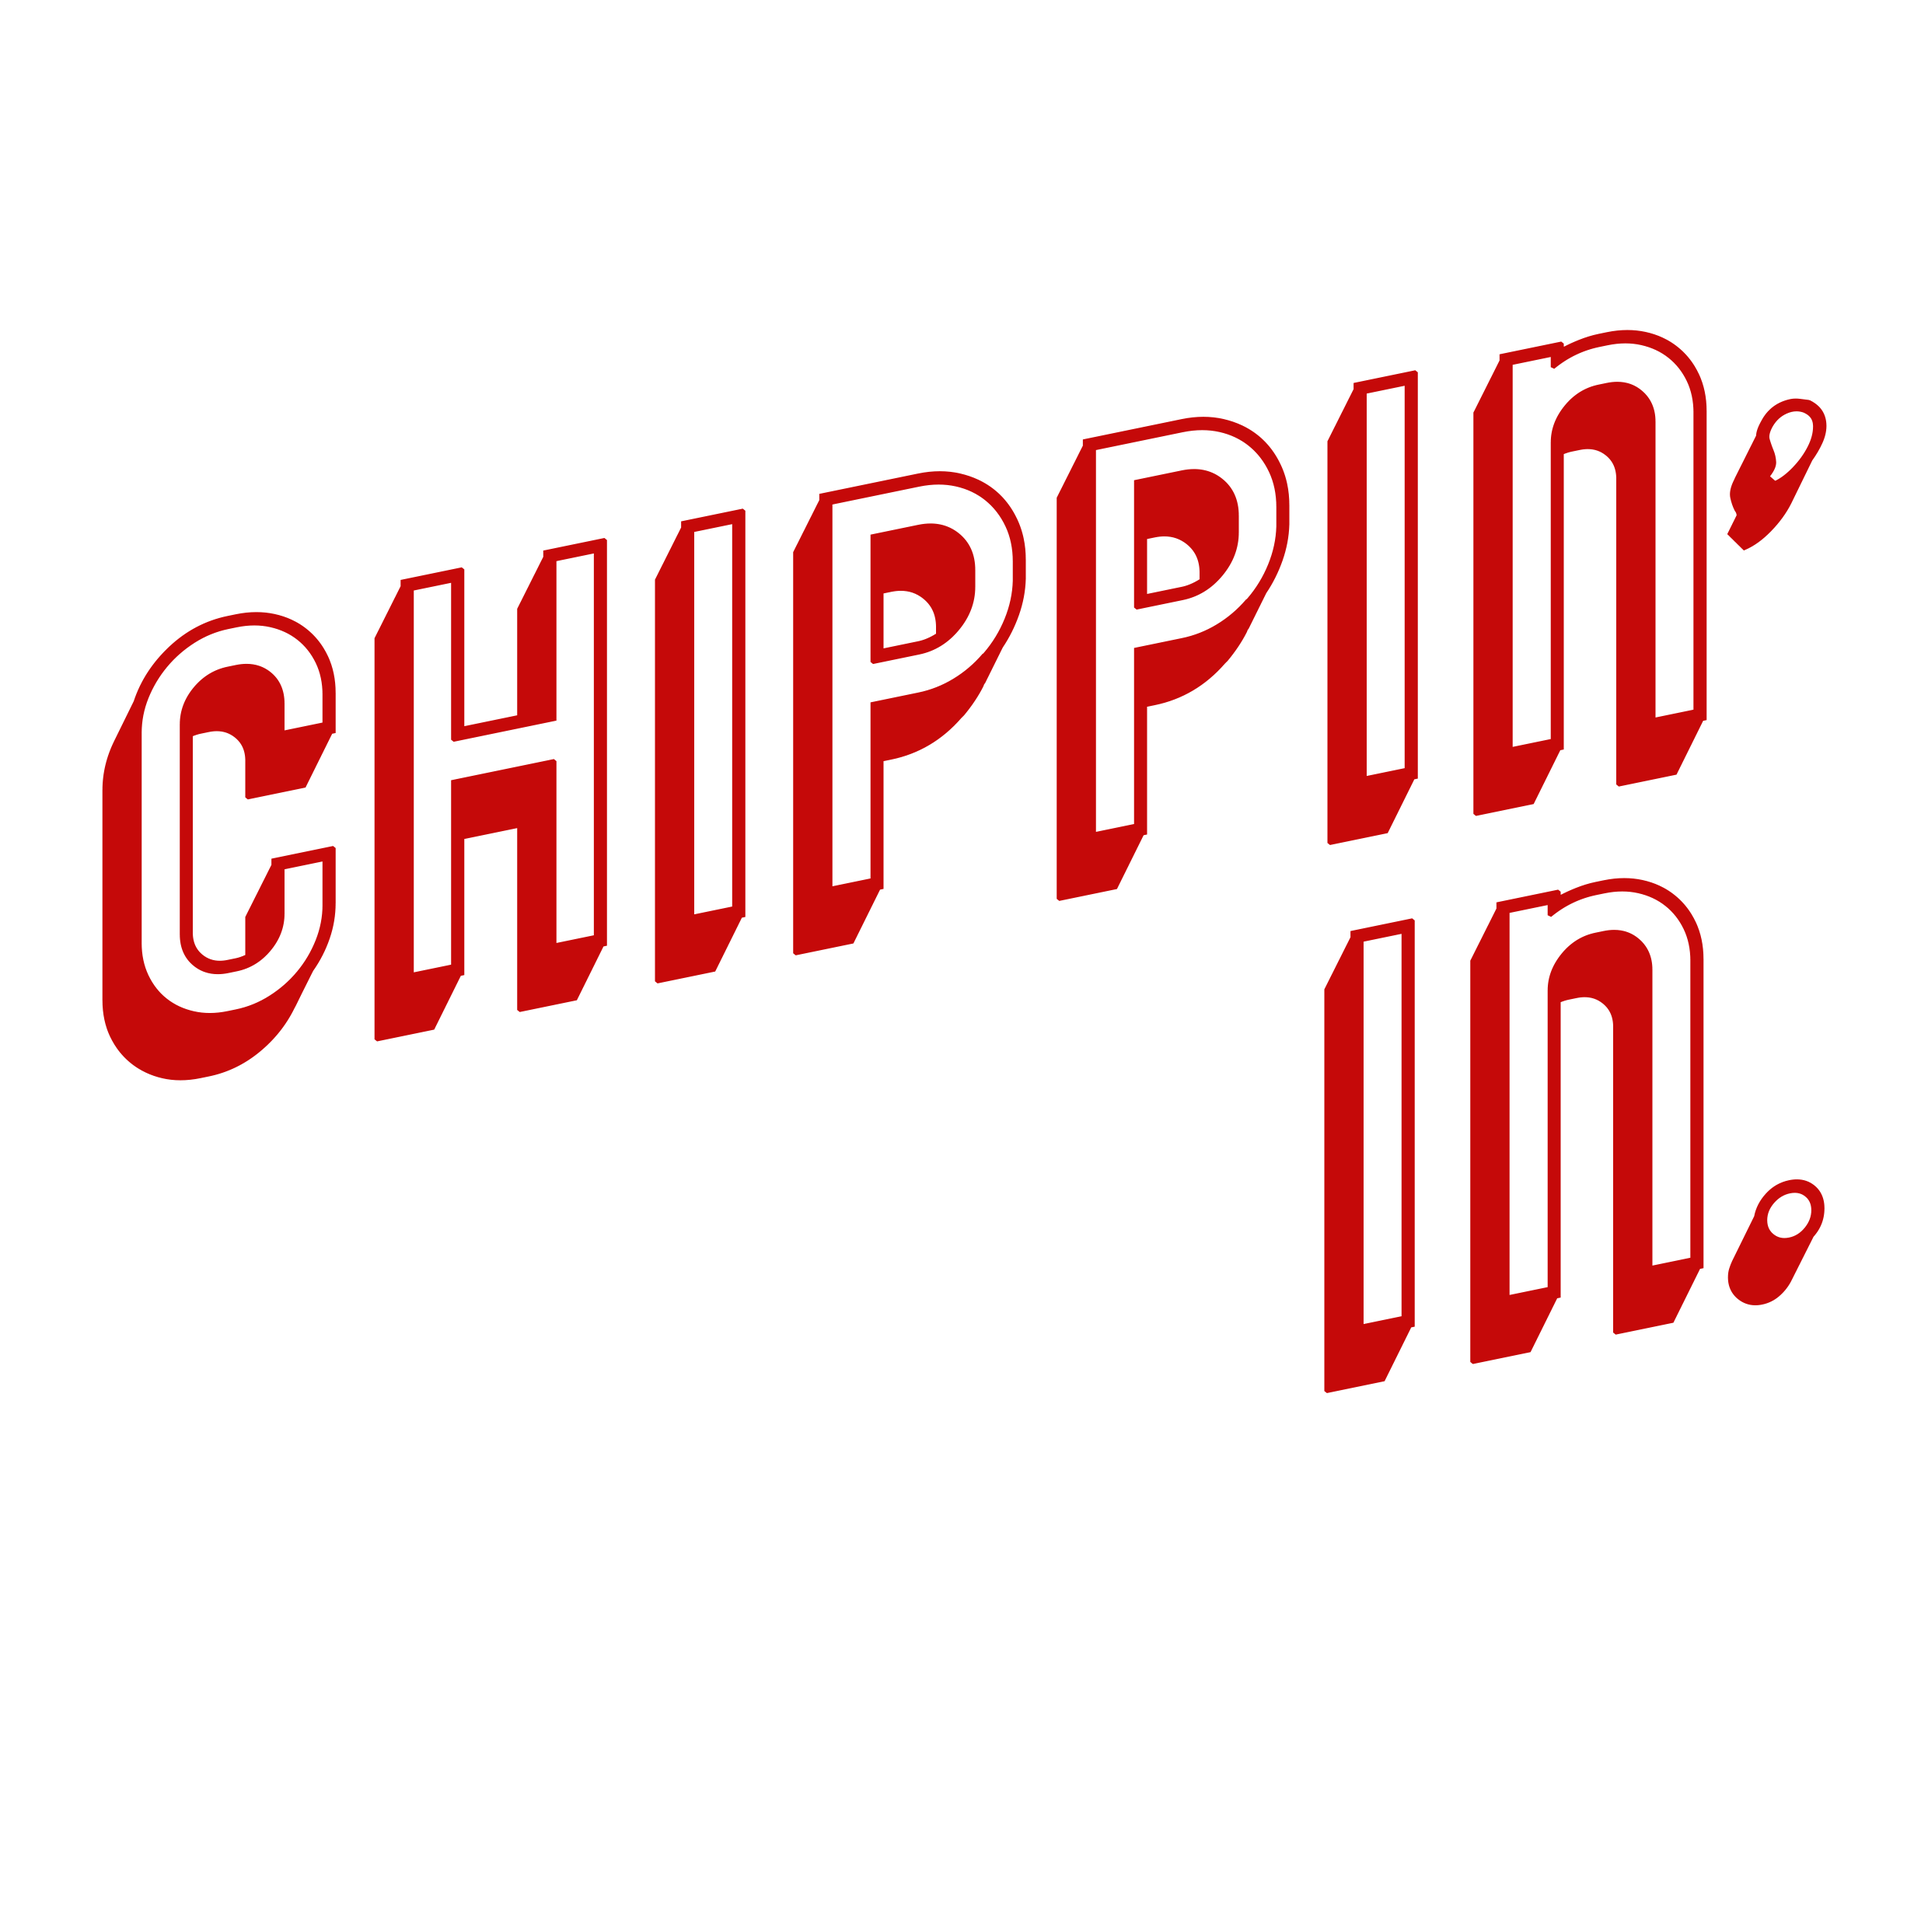
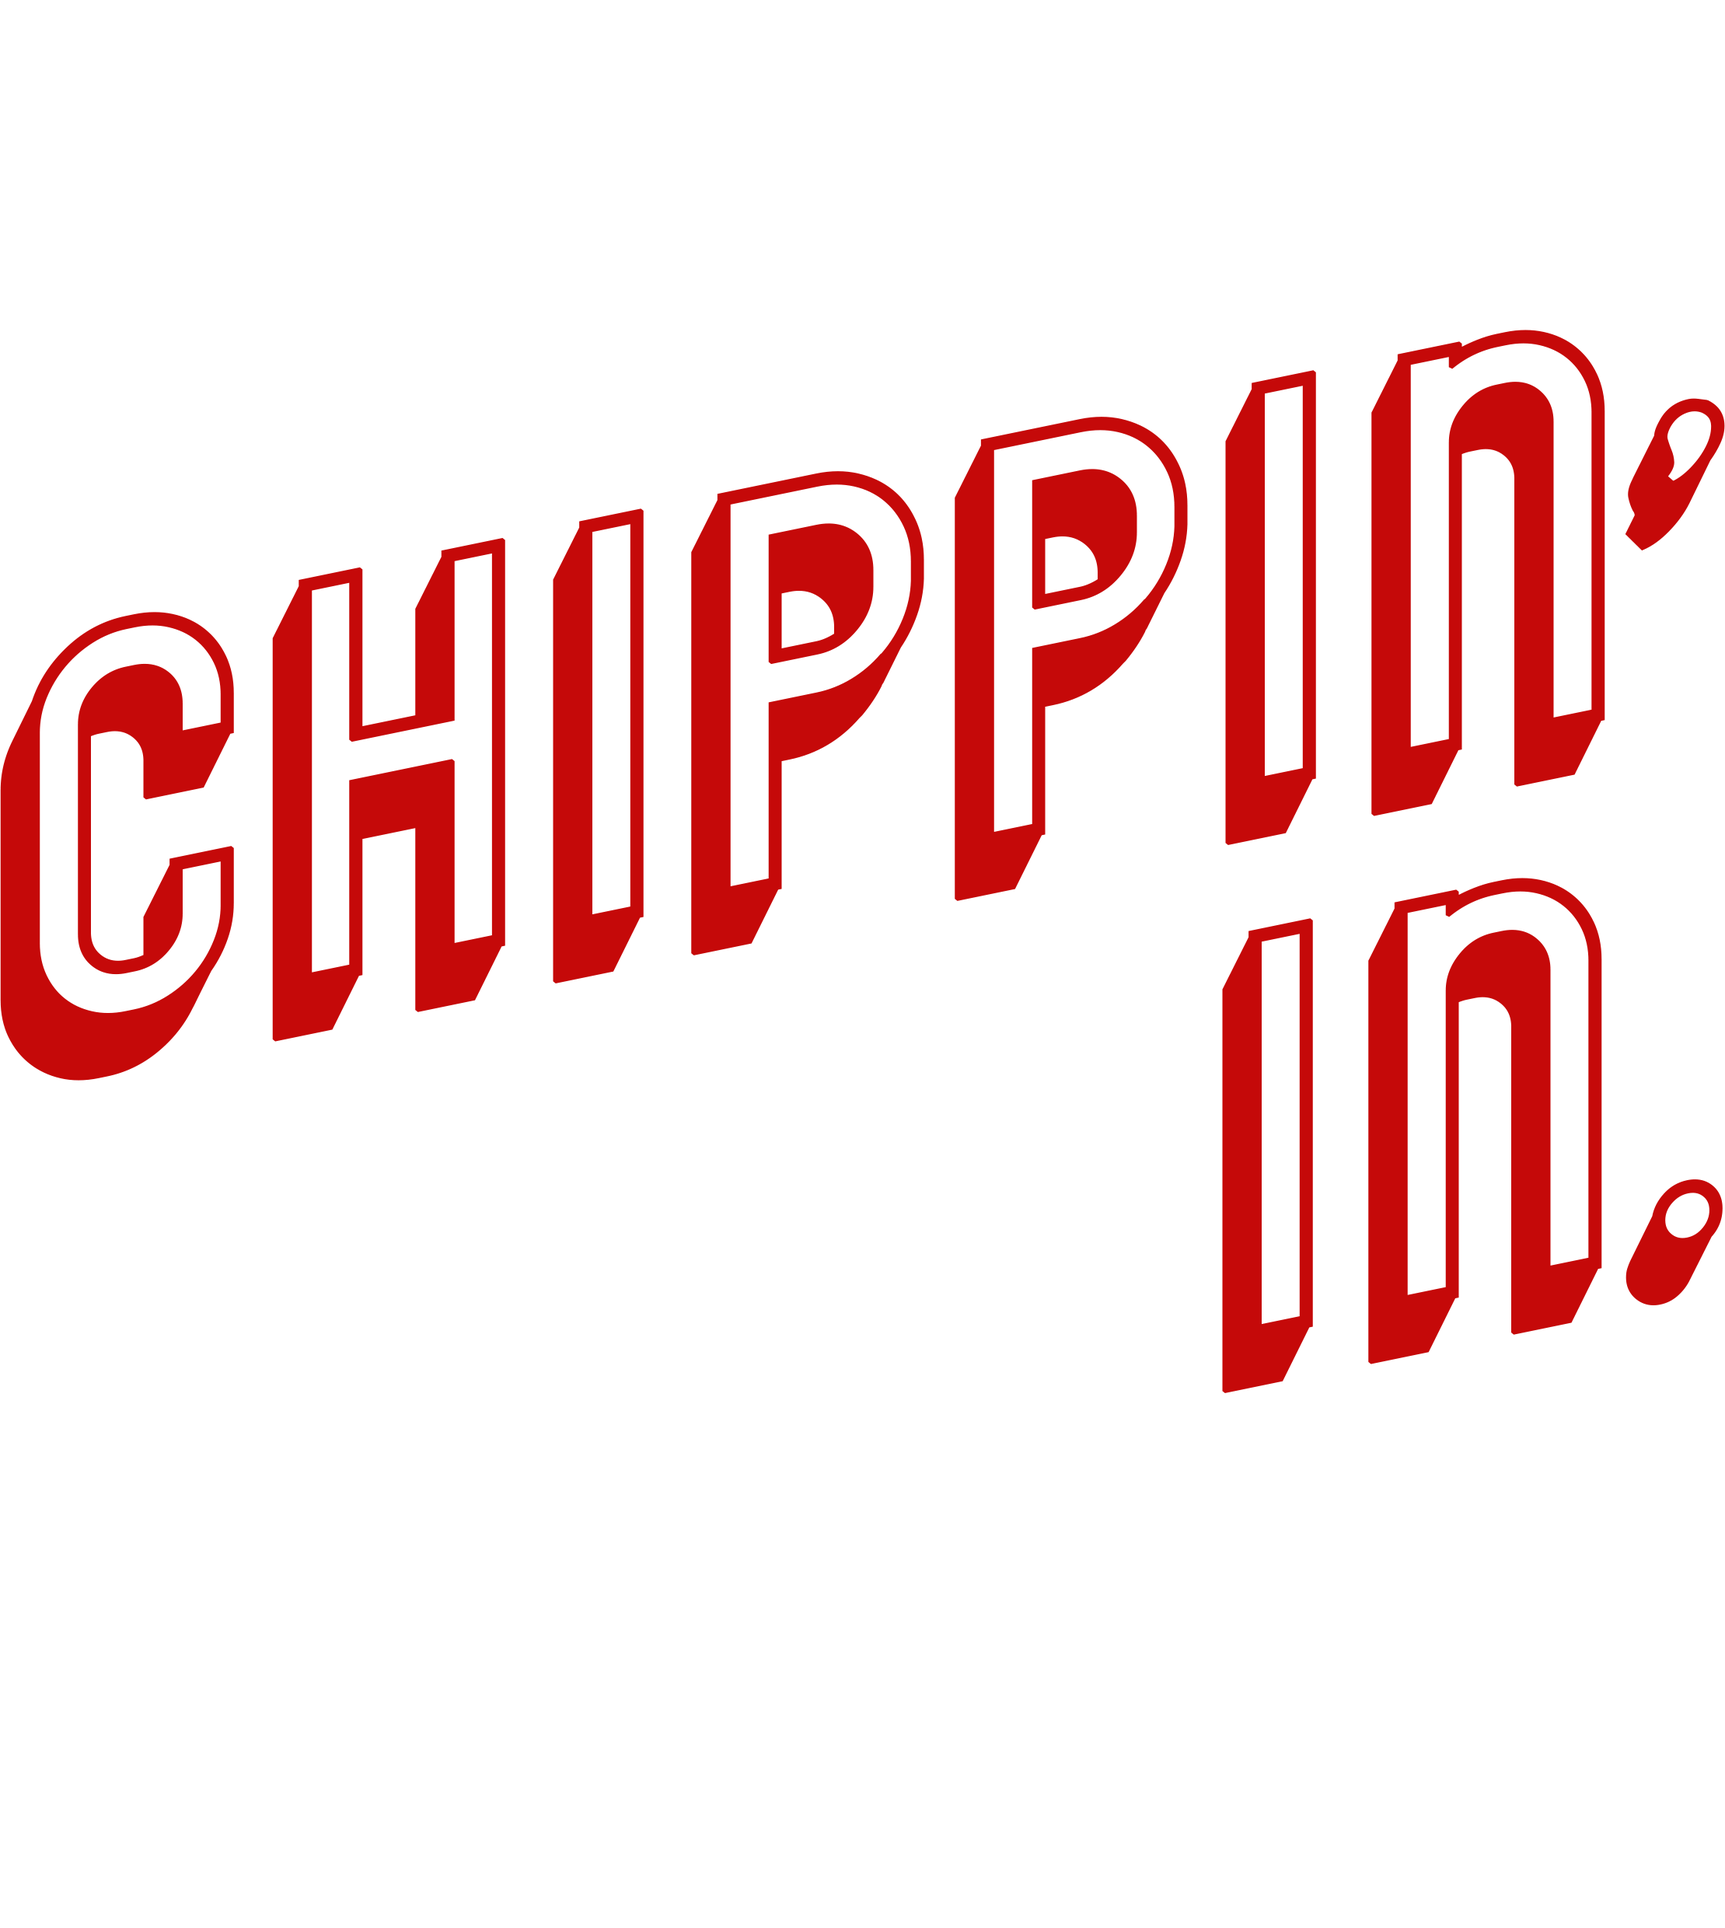
changes

Changed region(s): [[0.0, 0.1552, 1.0, 0.7452]]

diff --git a/emergency.css b/emergency.css
@@ -152,6 +152,7 @@ body{
   margin-left: auto;
   margin-right: auto;
   height: 600px;
+  z-index: -200;
 
 }
 
@@ -161,12 +162,14 @@ body{
 .title{
   margin-left: auto;
   margin-right: auto;
-  max-width: 800px;
+  max-width: 200px;
+  height: 100px;
   margin-top: -400px;
   margin-left: 20px;
   padding-left: 50px;
   transform: rotate(2deg);
   z-index: -100;
+  /* background-color: red; */
 }
 
 
@@ -181,6 +184,7 @@ body{
   margin-left: 220px;
   margin-top: -150px;
   height: 300px;
+  /* background-color: red; */
 
 }
 
@@ -189,6 +193,7 @@ body{
   margin-left: auto;
   margin-right: auto;
   max-width: 450px;
+  z-index: -400;
 
 }
 

diff --git a/styles.css b/styles.css
@@ -141,13 +141,13 @@ body{
   margin-left: auto;
   margin-right: auto;
   max-width: 800px;
-  margin-top: -150px;
+  margin-top: -240px;
   padding-left: 50px;
 }
 
 
 .titleImg{
-  margin-top: -230px;
+  margin-top: -290px;
   margin-left: auto;
   margin-right: auto;
   max-width: 450px;

diff --git a/emergency.html b/emergency.html
@@ -35,7 +35,7 @@
 
 <div class="titleDiv">
   <div class="title">
-    <img src="Assets/chippingIn.png" width="300px">
+    <img src="Assets/chippingIn2.png" width="300px">
 
 
 

diff --git a/index.html b/index.html
@@ -33,7 +33,7 @@
   </div>
 
 <div class="title">
-  <img src="Assets/chippingIn.png" width="700px">
+  <img src="Assets/chippingIn.png" width="780px">
 
 
 
